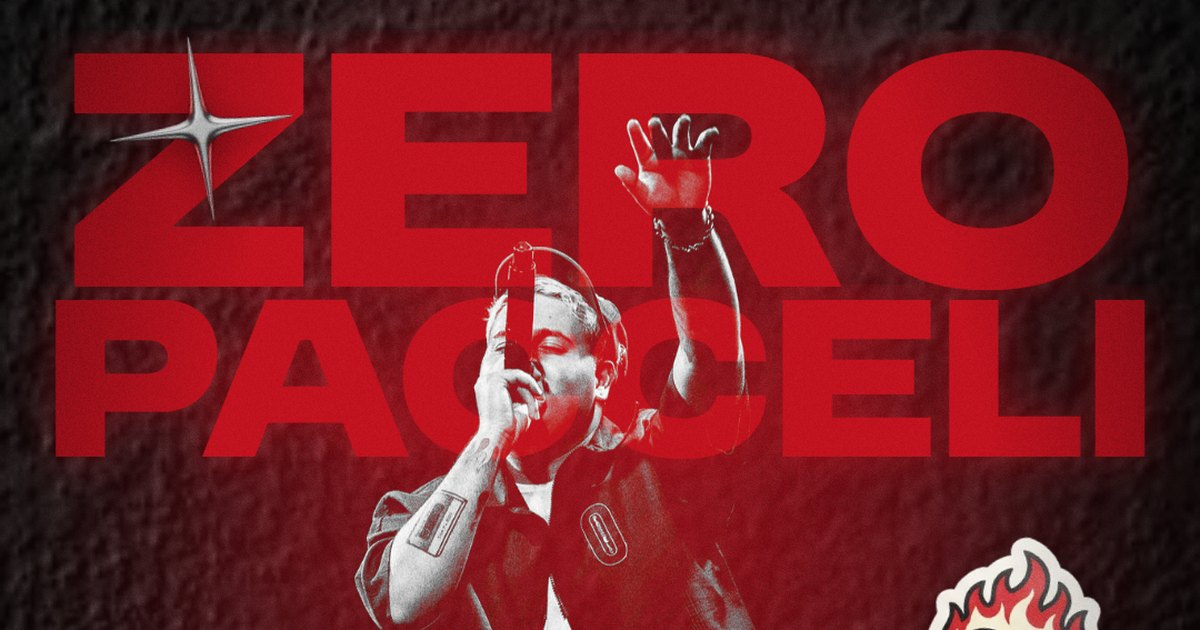
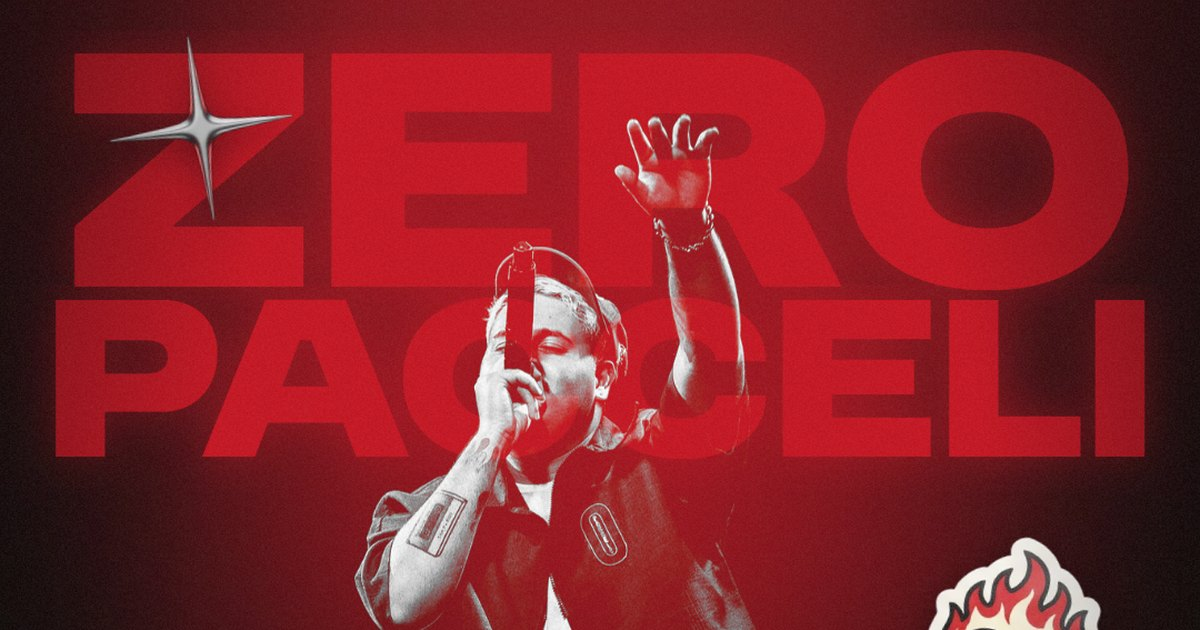
Fundo novo: plateia desfocada

diff --git a/index.html b/index.html
@@ -22,19 +22,19 @@
 @font-face{font-family:"Satoshi";src:url("assets/Satoshi-Variable.woff2") format("woff2");font-weight:300 900;font-display:block}
 :root{--ink:#0D0B0B;--red:#C1121F;--red-hi:#E0242F;--off:#EDE8E1;--mute:#A79F97;--ease:cubic-bezier(.16,1,.3,1);--pop:cubic-bezier(.34,1.56,.64,1)}
 *{box-sizing:border-box;margin:0;padding:0}
-html,body{height:100%;overflow:hidden;background:#0d0b0b url("assets/parede.jpg") center/cover}
+html,body{height:100%;overflow:hidden;background:linear-gradient(rgba(5,4,4,.7),rgba(5,4,4,.7)),#0b0909 url("assets/fundo.jpg") center bottom/cover}
 body{font-family:"Satoshi",sans-serif;color:var(--off);-webkit-font-smoothing:antialiased}
-body::before{content:"";position:fixed;inset:0;background:rgba(5,4,4,.82)}
+
 
 /* palco 1080x1920 */
 .vp{position:fixed;left:0;top:0;width:100%;height:100%;overflow:hidden}
-.stage{position:absolute;left:0;top:0;width:1080px;height:var(--h,1920px);transform-origin:0 0;transform:translateX(var(--x,0px)) scale(var(--k,1));overflow:hidden;background:#0d0b0b url("assets/parede.jpg") center/cover}
-.stage::before{content:"";position:absolute;inset:0;background:rgba(10,8,8,.62);z-index:0}
+.stage{position:absolute;left:0;top:0;width:1080px;height:var(--h,1920px);transform-origin:0 0;transform:translateX(var(--x,0px)) scale(var(--k,1));overflow:hidden;background:#0b0909 url("assets/fundo.jpg") center bottom/cover}
+
 .cv{left:0;top:var(--o,0px);width:1080px;height:1920px}
 .cv > *{position:absolute}
 
 .stage > *{position:absolute}
-.grain{inset:-50%;background:url("assets/grain.png");opacity:.1;mix-blend-mode:overlay;pointer-events:none;z-index:60;animation:grain 1s steps(6) infinite}
+.grain{inset:-50%;background:url("assets/grain.png") 0 0/180px;opacity:.07;mix-blend-mode:screen;pointer-events:none;z-index:60;animation:grain 1s steps(6) infinite}
 @keyframes grain{0%,100%{transform:translate(0,0)}20%{transform:translate(-3%,2%)}40%{transform:translate(2%,-4%)}60%{transform:translate(-2%,3%)}80%{transform:translate(4%,1%)}}
 .vig{inset:0;background:radial-gradient(ellipse at 50% 40%,transparent 48%,rgba(0,0,0,.7));pointer-events:none;z-index:59}
 
